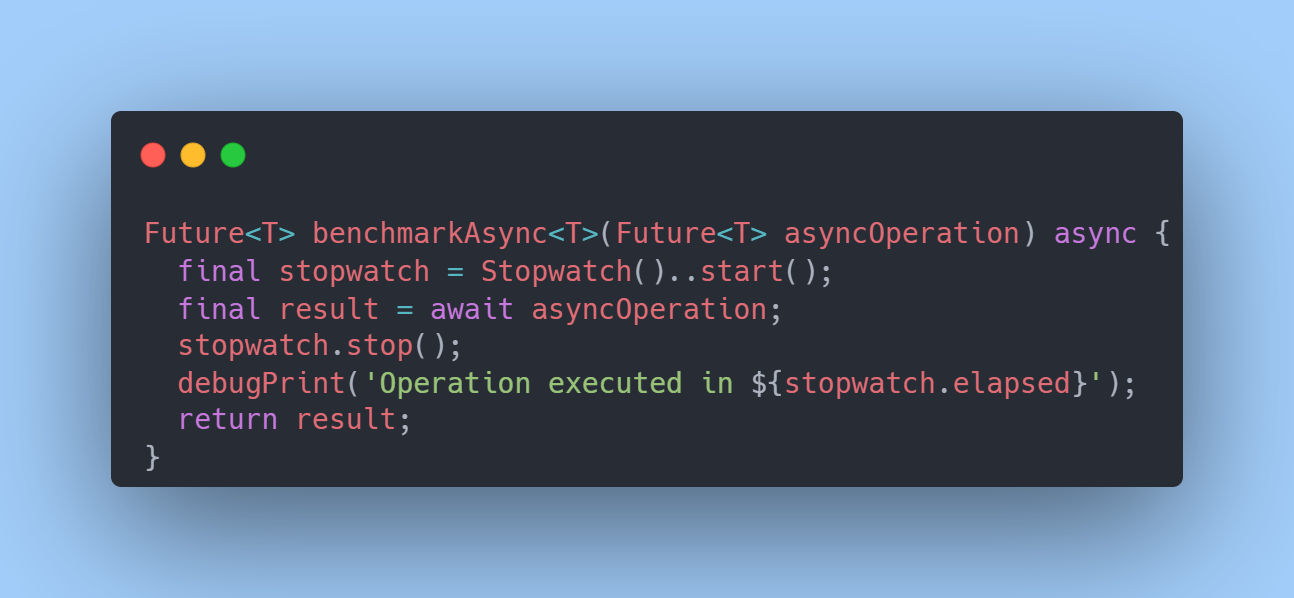
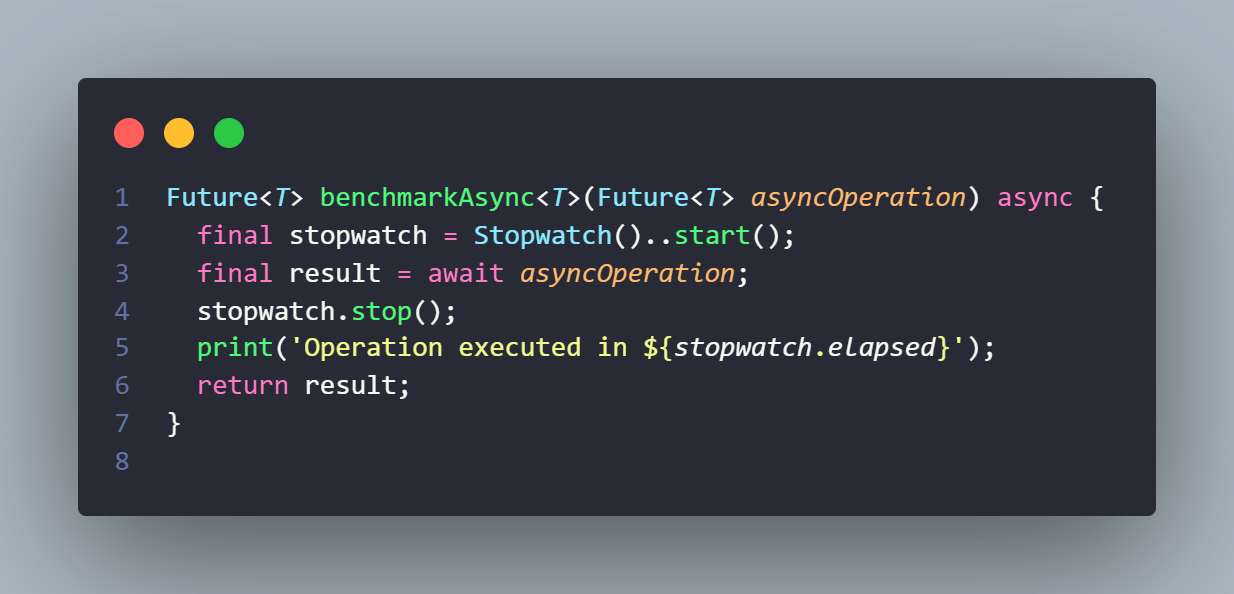
updated images

diff --git a/README.md b/README.md
@@ -59,4 +59,4 @@ Some tips and tricks in Flutter & Dart.
 # Credits
 
 * **Inspiration**: [vandadnp's](https://github.com/vandadnp) repository [flutter-tips-and-tricks](https://github.com/vandadnp/flutter-tips-and-tricks)
-* **Code snippets**: [carbon](https://carbon.now.sh/)
+* **Code snippets**: [CodeSnap](https://marketplace.visualstudio.com/items?itemName=adpyke.codesnap)
